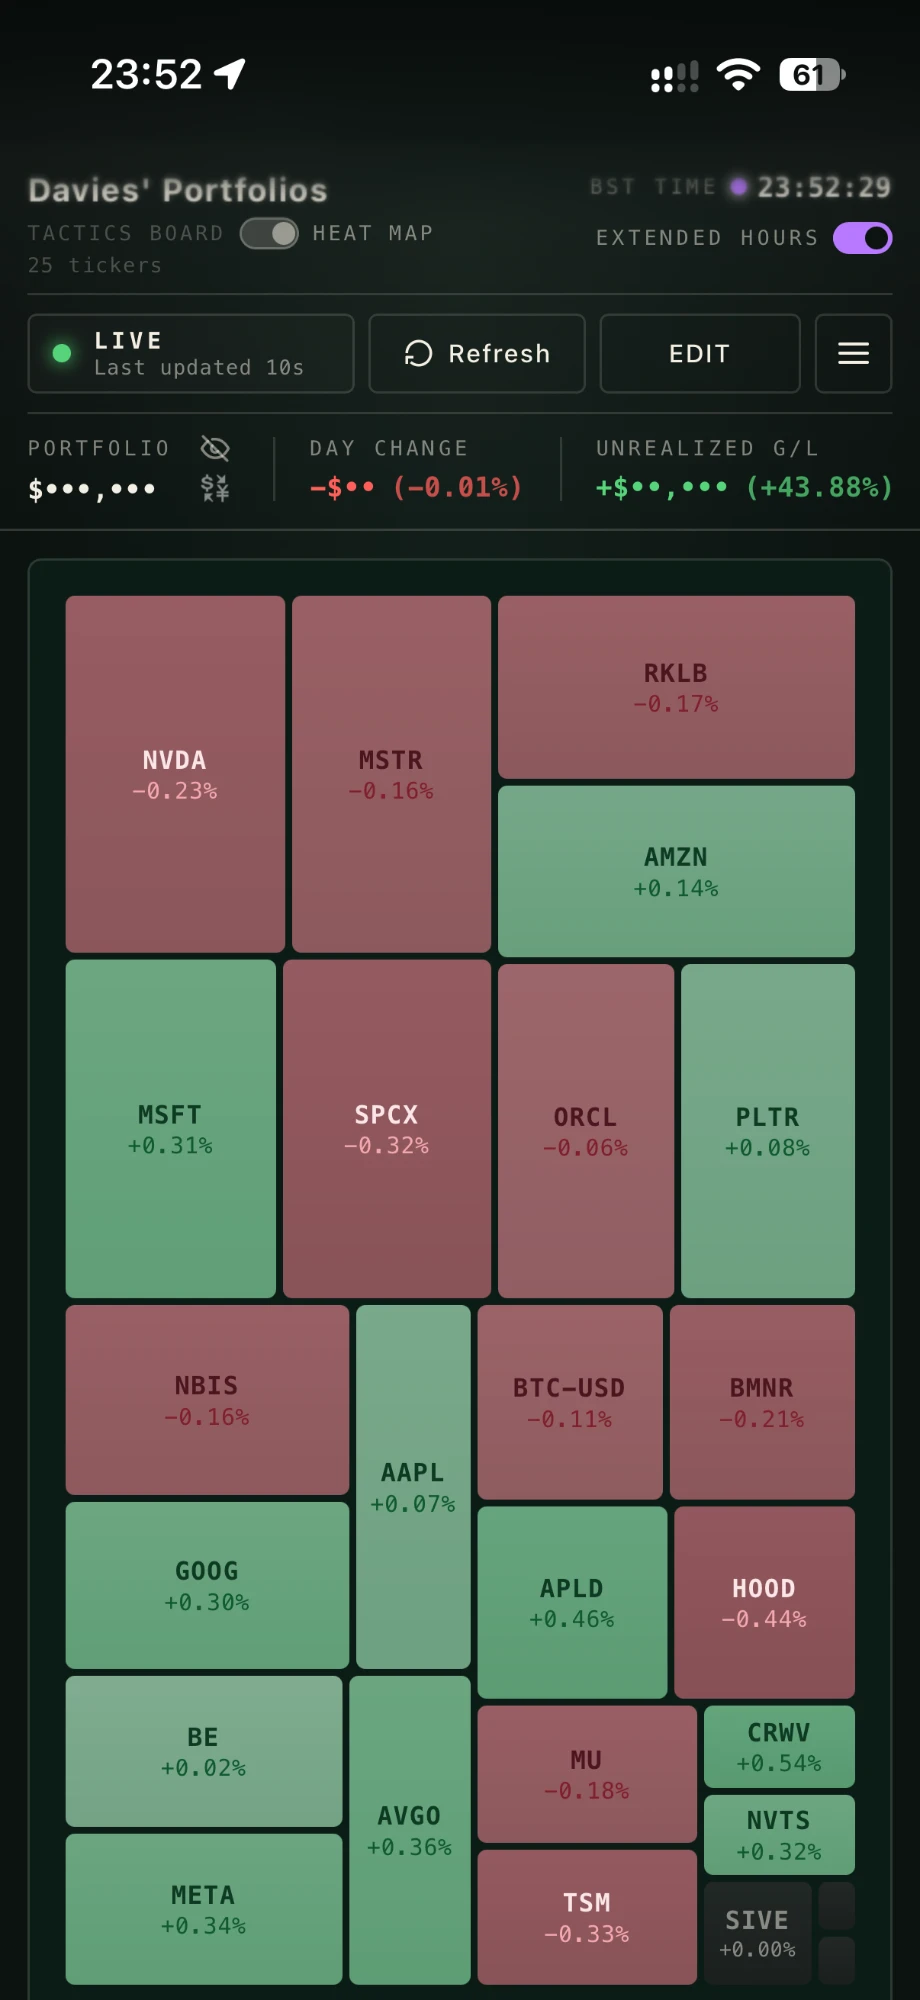
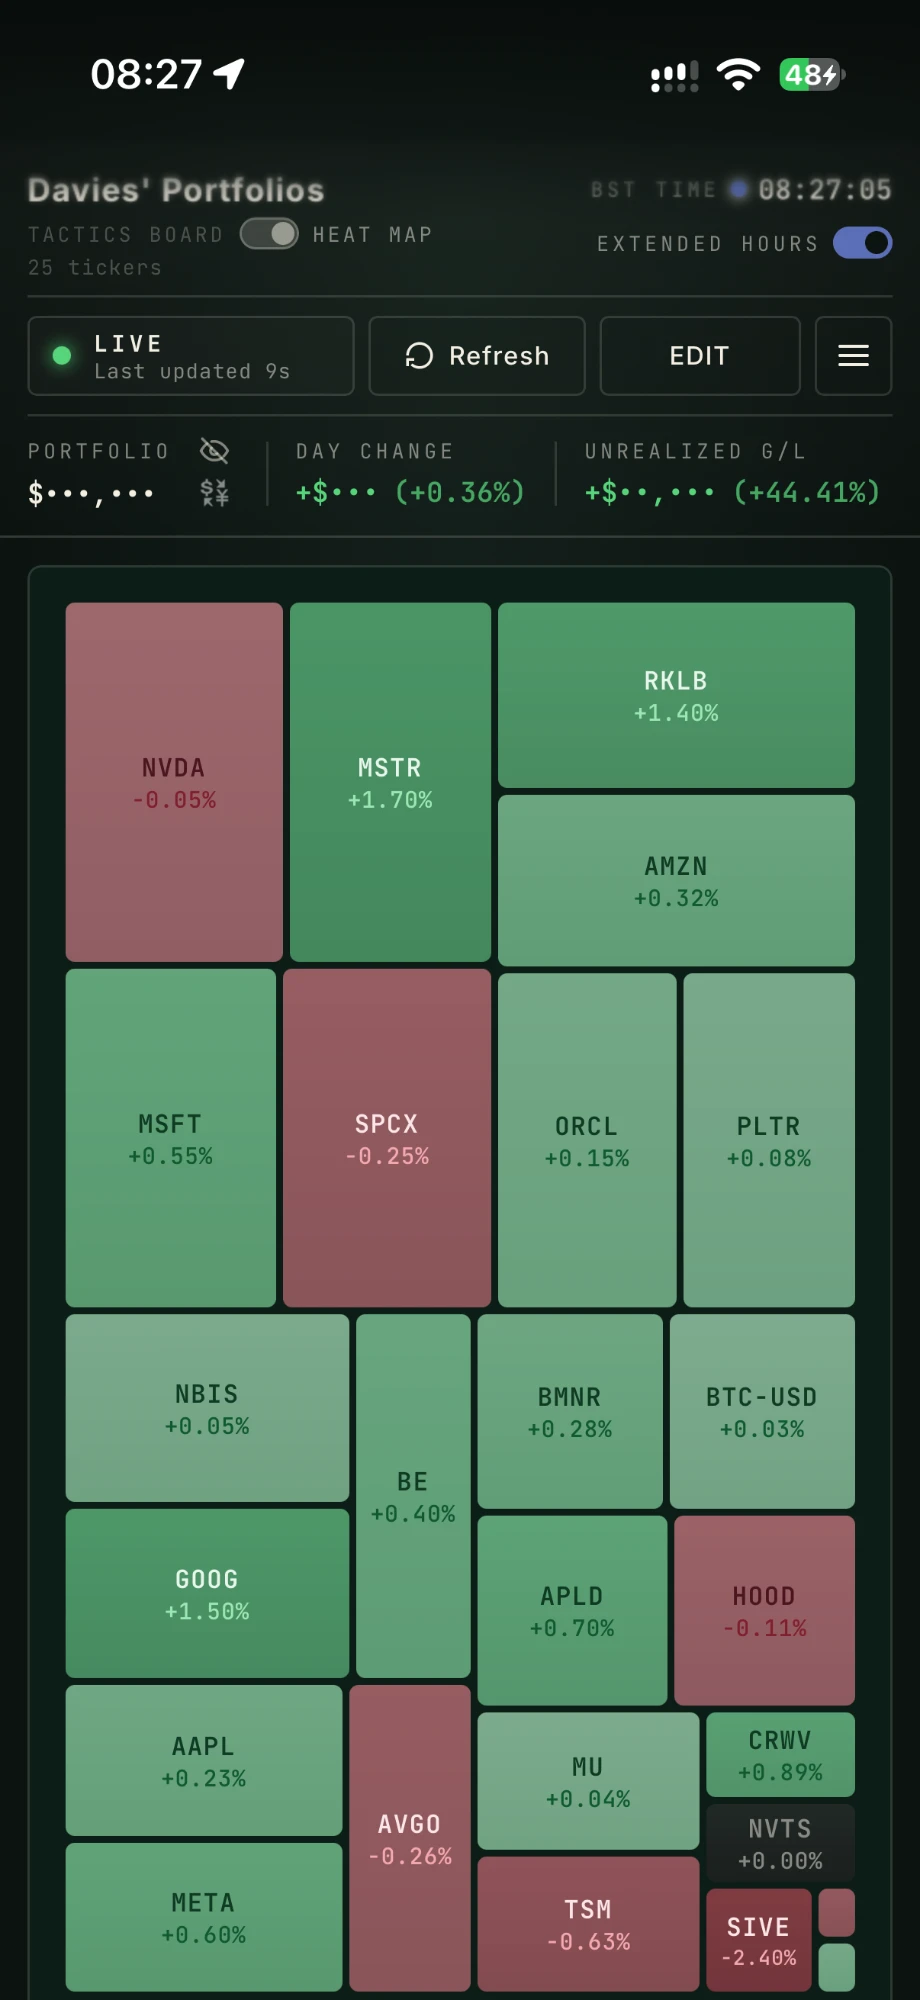
Show this morning's phone screenshots in the README
Davies sent a fresh set from his phone. They replace the three under the same
names, so the README's table and descriptions stay as they are, and every
dollar amount is still masked by the site's hide-values mode.

diff --git a/docs/LEDGER.md b/docs/LEDGER.md
@@ -436,6 +436,14 @@ Everything before 2026-09-22 lives there already — the 2026-09-05 →
 2026-09-21 sections under Part 2's "LEDGER.md history, archived
 2026-09-22", oldest first.
 
+### [2026-09-23 11:25 UTC] Platform: Claude Code | Model: not recorded (session policy)
+
+**The README's three phone screenshots are Davies' new ones** (his message, taken
+08:27 BST today): tactics board, heat map, sidebar, replacing the 23:52 set under
+the same names, so the README's table and alt text still describe them. Every
+dollar amount is masked by the site's hide-values mode, as before; the same
+920 × 2000 WebP.
+
 ### [2026-09-23 11:01 UTC] Platform: Claude Code | Model: not recorded (session policy)
 
 **Binance runs the same three strategies on paper** (migration `0049`, pushed
